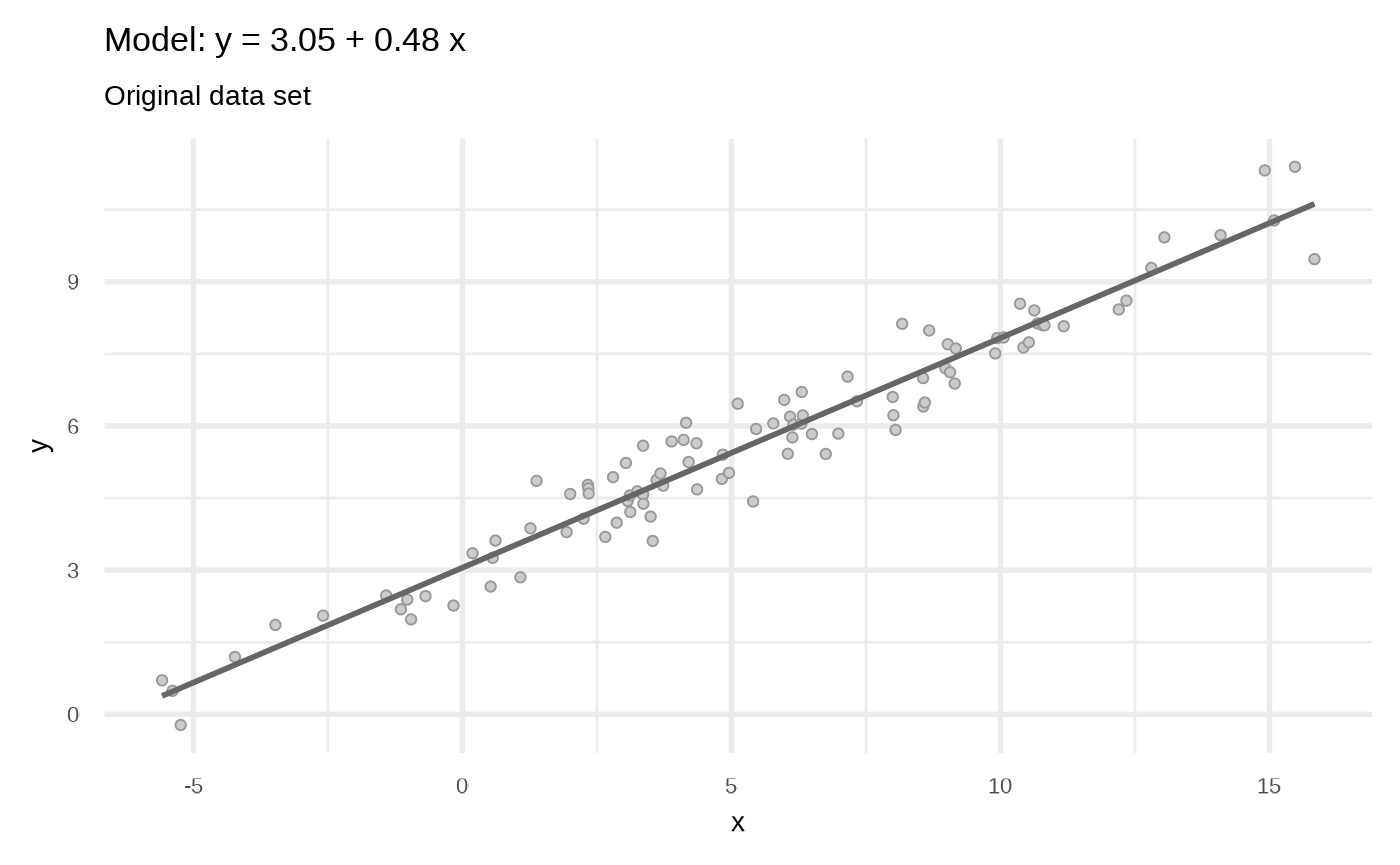
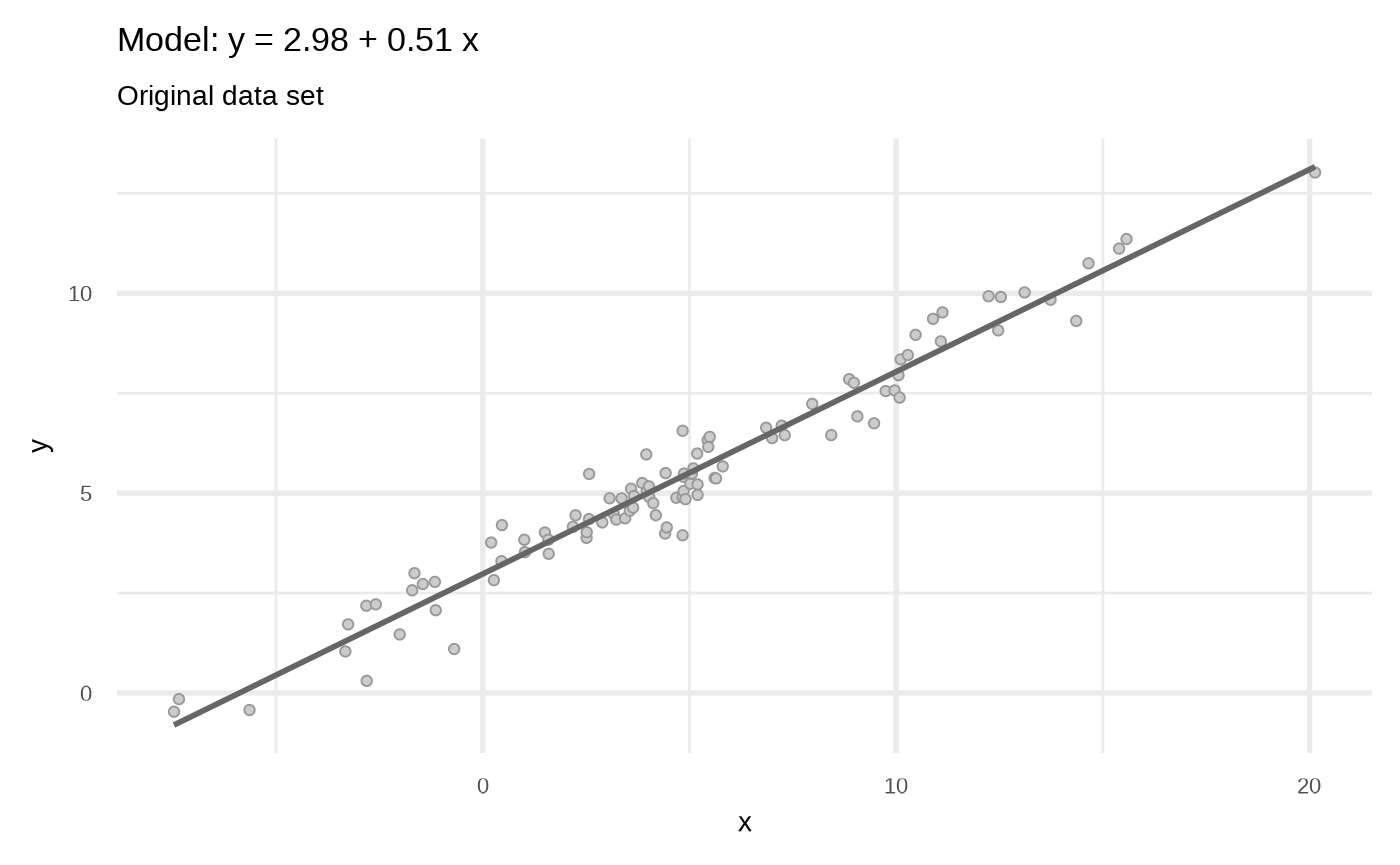
Built site for klassets: 0.0.0.9000@2bb1b86

diff --git a/articles/Quasi-Anscombe-data-sets.html b/articles/Quasi-Anscombe-data-sets.html
@@ -216,16 +216,16 @@
 <span class="co">#&gt; <span style="color: #949494;"># A tibble: 22 × 7</span></span>
 <span class="co">#&gt;    set      term        estimate std.error statistic  p.value sig  </span>
 <span class="co">#&gt;    <span style="color: #949494; font-style: italic;">&lt;chr&gt;</span>    <span style="color: #949494; font-style: italic;">&lt;chr&gt;</span>          <span style="color: #949494; font-style: italic;">&lt;dbl&gt;</span>     <span style="color: #949494; font-style: italic;">&lt;dbl&gt;</span>     <span style="color: #949494; font-style: italic;">&lt;dbl&gt;</span>    <span style="color: #949494; font-style: italic;">&lt;dbl&gt;</span> <span style="color: #949494; font-style: italic;">&lt;chr&gt;</span></span>
-<span class="co">#&gt; <span style="color: #BCBCBC;"> 1</span> Original (Intercept)    3.05     0.081<span style="text-decoration: underline;">3</span>     37.5  5.70<span style="color: #949494;">e</span><span style="color: #BB0000;">-60</span> ***  </span>
-<span class="co">#&gt; <span style="color: #BCBCBC;"> 2</span> Original x              0.478    0.011<span style="text-decoration: underline;">3</span>     42.1  1.36<span style="color: #949494;">e</span><span style="color: #BB0000;">-64</span> ***  </span>
-<span class="co">#&gt; <span style="color: #BCBCBC;"> 3</span> Set 2 v1 (Intercept)    3.05     0.404       7.55 2.28<span style="color: #949494;">e</span><span style="color: #BB0000;">-11</span> ***  </span>
-<span class="co">#&gt; <span style="color: #BCBCBC;"> 4</span> Set 2 v1 x              0.478    0.056<span style="text-decoration: underline;">4</span>      8.47 2.46<span style="color: #949494;">e</span><span style="color: #BB0000;">-13</span> ***  </span>
-<span class="co">#&gt; <span style="color: #BCBCBC;"> 5</span> Set 2 v2 (Intercept)    3.05     0.217      14.1  2.96<span style="color: #949494;">e</span><span style="color: #BB0000;">-25</span> ***  </span>
-<span class="co">#&gt; <span style="color: #BCBCBC;"> 6</span> Set 2 v2 x              0.478    0.030<span style="text-decoration: underline;">3</span>     15.8  1.13<span style="color: #949494;">e</span><span style="color: #BB0000;">-28</span> ***  </span>
-<span class="co">#&gt; <span style="color: #BCBCBC;"> 7</span> Set 3 v1 (Intercept)    3.05     0.311       9.81 3.12<span style="color: #949494;">e</span><span style="color: #BB0000;">-16</span> ***  </span>
-<span class="co">#&gt; <span style="color: #BCBCBC;"> 8</span> Set 3 v1 x              0.478    0.043<span style="text-decoration: underline;">4</span>     11.0  7.94<span style="color: #949494;">e</span><span style="color: #BB0000;">-19</span> ***  </span>
-<span class="co">#&gt; <span style="color: #BCBCBC;"> 9</span> Set 3 v2 (Intercept)    3.05     0.286      10.7  4.11<span style="color: #949494;">e</span><span style="color: #BB0000;">-18</span> ***  </span>
-<span class="co">#&gt; <span style="color: #BCBCBC;">10</span> Set 3 v2 x              0.478    0.039<span style="text-decoration: underline;">9</span>     12.0  6.55<span style="color: #949494;">e</span><span style="color: #BB0000;">-21</span> ***  </span>
+<span class="co">#&gt; <span style="color: #BCBCBC;"> 1</span> Original (Intercept)    2.98     0.077<span style="text-decoration: underline;">2</span>     38.6  4.52<span style="color: #949494;">e</span><span style="color: #BB0000;">-61</span> ***  </span>
+<span class="co">#&gt; <span style="color: #BCBCBC;"> 2</span> Original x              0.506    0.011<span style="text-decoration: underline;">0</span>     46.1  3.13<span style="color: #949494;">e</span><span style="color: #BB0000;">-68</span> ***  </span>
+<span class="co">#&gt; <span style="color: #BCBCBC;"> 3</span> Set 2 v1 (Intercept)    2.98     0.404       7.36 5.68<span style="color: #949494;">e</span><span style="color: #BB0000;">-11</span> ***  </span>
+<span class="co">#&gt; <span style="color: #BCBCBC;"> 4</span> Set 2 v1 x              0.506    0.057<span style="text-decoration: underline;">6</span>      8.79 5.04<span style="color: #949494;">e</span><span style="color: #BB0000;">-14</span> ***  </span>
+<span class="co">#&gt; <span style="color: #BCBCBC;"> 5</span> Set 2 v2 (Intercept)    2.98     0.218      13.7  2.13<span style="color: #949494;">e</span><span style="color: #BB0000;">-24</span> ***  </span>
+<span class="co">#&gt; <span style="color: #BCBCBC;"> 6</span> Set 2 v2 x              0.506    0.031<span style="text-decoration: underline;">1</span>     16.3  1.16<span style="color: #949494;">e</span><span style="color: #BB0000;">-29</span> ***  </span>
+<span class="co">#&gt; <span style="color: #BCBCBC;"> 7</span> Set 3 v1 (Intercept)    2.98     0.338       8.81 4.63<span style="color: #949494;">e</span><span style="color: #BB0000;">-14</span> ***  </span>
+<span class="co">#&gt; <span style="color: #BCBCBC;"> 8</span> Set 3 v1 x              0.506    0.048<span style="text-decoration: underline;">1</span>     10.5  9.06<span style="color: #949494;">e</span><span style="color: #BB0000;">-18</span> ***  </span>
+<span class="co">#&gt; <span style="color: #BCBCBC;"> 9</span> Set 3 v2 (Intercept)    2.98     0.315       9.45 1.87<span style="color: #949494;">e</span><span style="color: #BB0000;">-15</span> ***  </span>
+<span class="co">#&gt; <span style="color: #BCBCBC;">10</span> Set 3 v2 x              0.506    0.044<span style="text-decoration: underline;">8</span>     11.3  2.00<span style="color: #949494;">e</span><span style="color: #BB0000;">-19</span> ***  </span>
 <span class="co">#&gt; <span style="color: #949494;"># … with 12 more rows</span></span>
 
 <span class="va">dfcoef</span> |&gt; 
@@ -234,17 +234,17 @@
 <span class="co">#&gt; <span style="color: #949494;"># A tibble: 11 × 3</span></span>
 <span class="co">#&gt;    set      `(Intercept)`     x</span>
 <span class="co">#&gt;    <span style="color: #949494; font-style: italic;">&lt;chr&gt;</span>            <span style="color: #949494; font-style: italic;">&lt;dbl&gt;</span> <span style="color: #949494; font-style: italic;">&lt;dbl&gt;</span></span>
-<span class="co">#&gt; <span style="color: #BCBCBC;"> 1</span> Original          3.05 0.478</span>
-<span class="co">#&gt; <span style="color: #BCBCBC;"> 2</span> Set 2 v1          3.05 0.478</span>
-<span class="co">#&gt; <span style="color: #BCBCBC;"> 3</span> Set 2 v2          3.05 0.478</span>
-<span class="co">#&gt; <span style="color: #BCBCBC;"> 4</span> Set 3 v1          3.05 0.478</span>
-<span class="co">#&gt; <span style="color: #BCBCBC;"> 5</span> Set 3 v2          3.05 0.478</span>
-<span class="co">#&gt; <span style="color: #BCBCBC;"> 6</span> Set 4 v1          3.05 0.478</span>
-<span class="co">#&gt; <span style="color: #BCBCBC;"> 7</span> Set 4 v2          3.05 0.478</span>
-<span class="co">#&gt; <span style="color: #BCBCBC;"> 8</span> Set 5 v1          3.05 0.478</span>
-<span class="co">#&gt; <span style="color: #BCBCBC;"> 9</span> Set 5 v2          3.05 0.478</span>
-<span class="co">#&gt; <span style="color: #BCBCBC;">10</span> Set 6 v1          3.05 0.478</span>
-<span class="co">#&gt; <span style="color: #BCBCBC;">11</span> Set 6 v2          3.05 0.478</span></code></pre></div>
+<span class="co">#&gt; <span style="color: #BCBCBC;"> 1</span> Original          2.98 0.506</span>
+<span class="co">#&gt; <span style="color: #BCBCBC;"> 2</span> Set 2 v1          2.98 0.506</span>
+<span class="co">#&gt; <span style="color: #BCBCBC;"> 3</span> Set 2 v2          2.98 0.506</span>
+<span class="co">#&gt; <span style="color: #BCBCBC;"> 4</span> Set 3 v1          2.98 0.506</span>
+<span class="co">#&gt; <span style="color: #BCBCBC;"> 5</span> Set 3 v2          2.98 0.506</span>
+<span class="co">#&gt; <span style="color: #BCBCBC;"> 6</span> Set 4 v1          2.98 0.506</span>
+<span class="co">#&gt; <span style="color: #BCBCBC;"> 7</span> Set 4 v2          2.98 0.506</span>
+<span class="co">#&gt; <span style="color: #BCBCBC;"> 8</span> Set 5 v1          2.98 0.506</span>
+<span class="co">#&gt; <span style="color: #BCBCBC;"> 9</span> Set 5 v2          2.98 0.506</span>
+<span class="co">#&gt; <span style="color: #BCBCBC;">10</span> Set 6 v1          2.98 0.506</span>
+<span class="co">#&gt; <span style="color: #BCBCBC;">11</span> Set 6 v2          2.98 0.506</span></code></pre></div>
 </div>
   </main><aside class="col-md-3"><nav id="toc"><h2>On this page</h2>
     </nav></aside>

diff --git a/index.html b/index.html
@@ -106,6 +106,11 @@
 <code class="sourceCode R"><span class="co"># install.packages("remotes")</span>
 <span class="fu">remotes</span><span class="fu">::</span><span class="fu">install_github</span><span class="op">(</span><span class="st">"jbkunst/klassets"</span><span class="op">)</span></code></pre></div>
 </div>
+<div class="section level2">
+<h2 id="why-klassets">Why <em>Klassets</em>?<a class="anchor" aria-label="anchor" href="#why-klassets"></a>
+</h2>
+<p>Just a weird merge for Class/Klass and sets.</p>
+</div>
 </div>
   </main><aside class="col-md-3"><div class="links">
 <h2 data-toc-skip>Links</h2>
